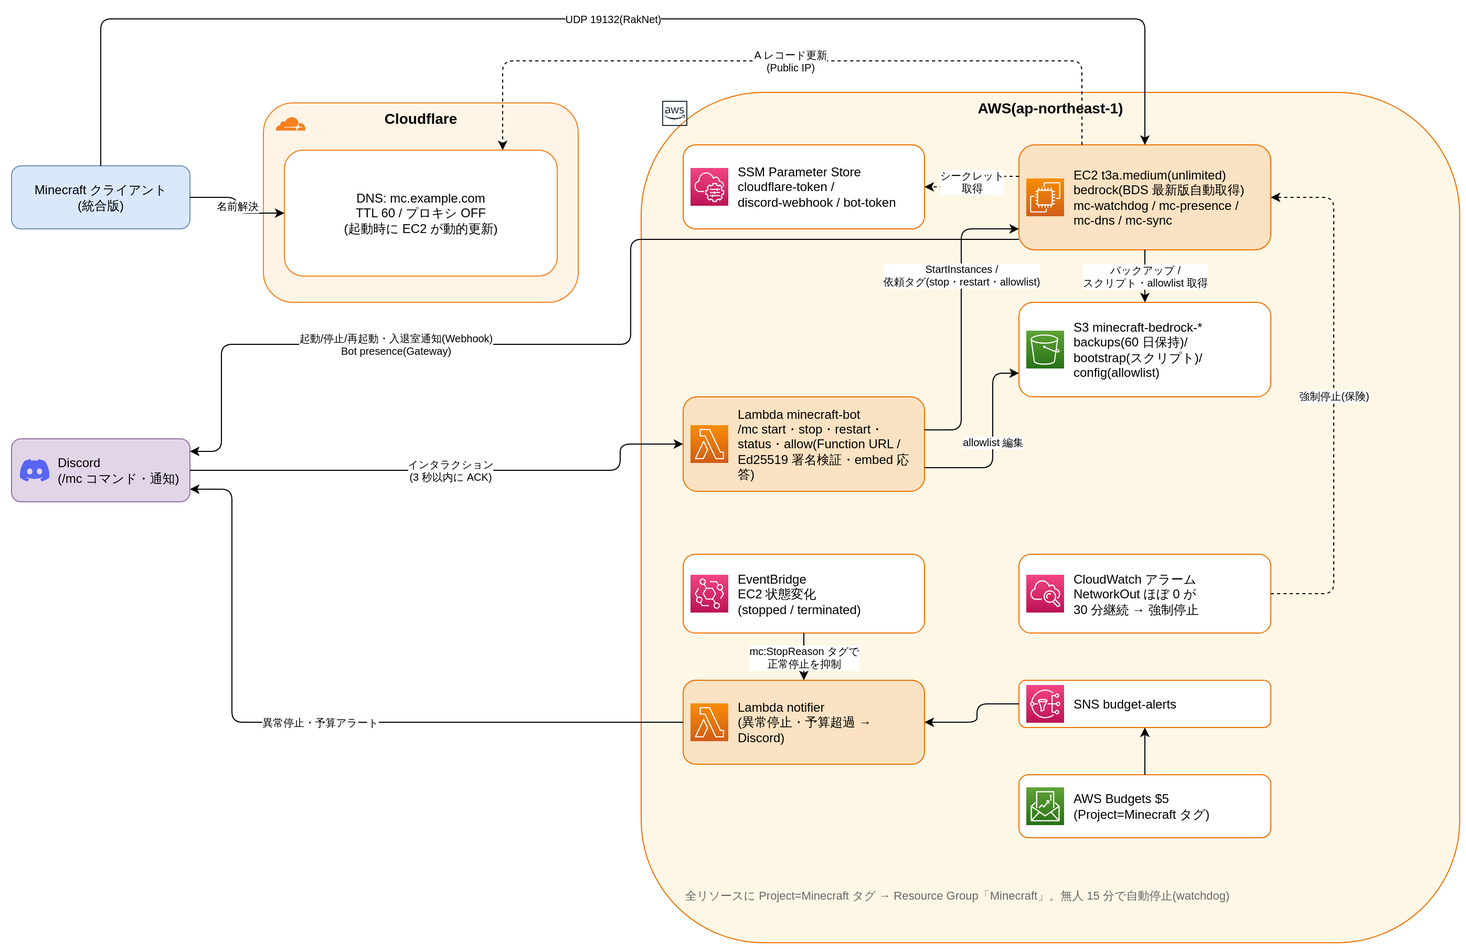
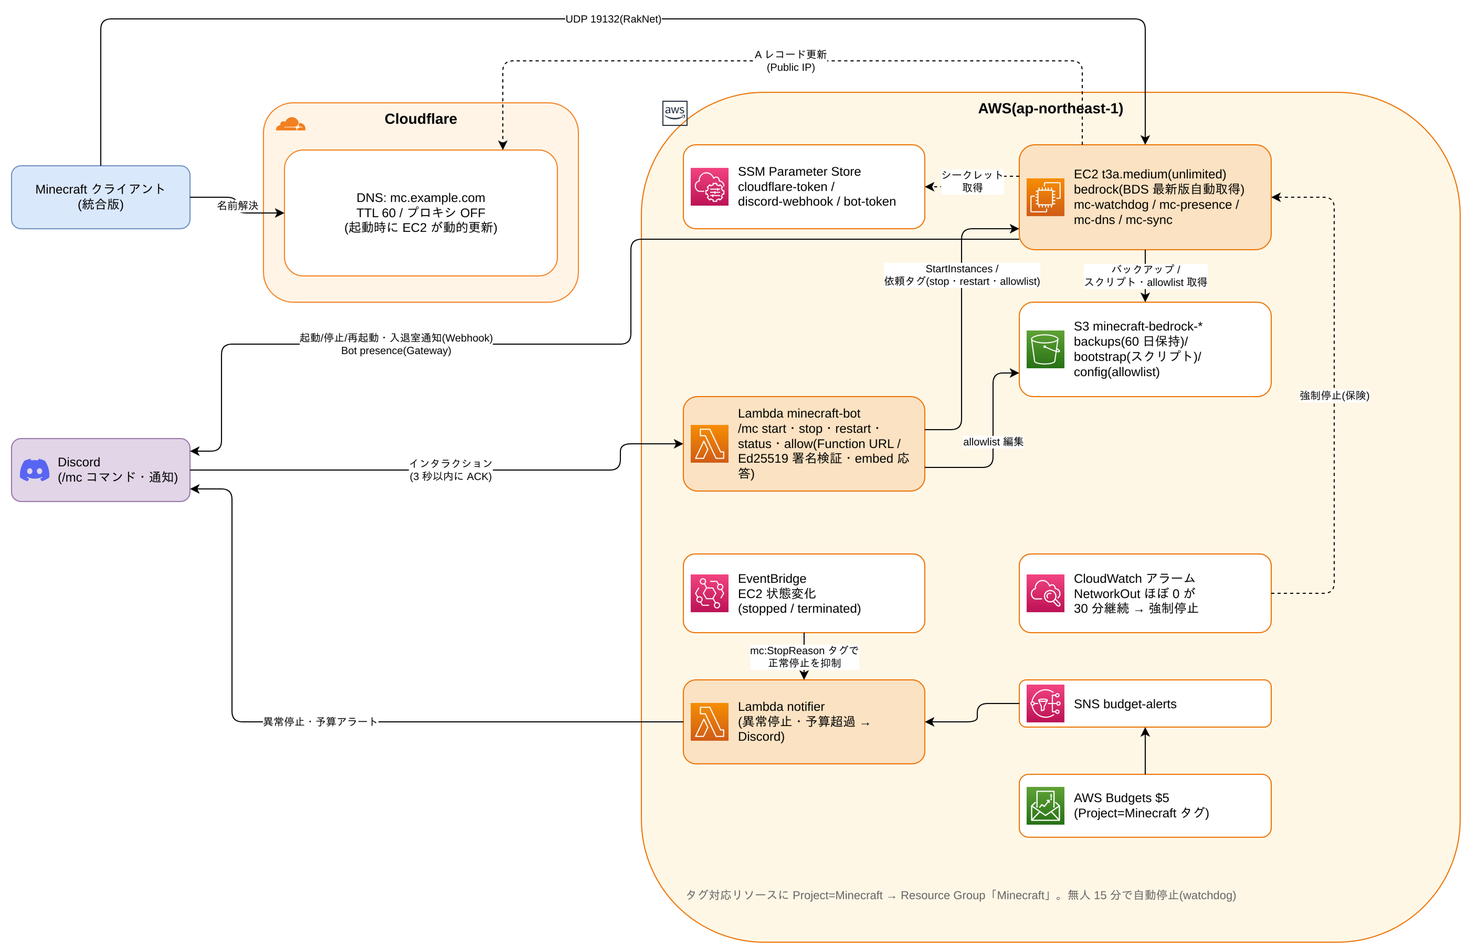
Audit OSS readiness and fix repository contradictions

diff --git a/server/idle-watchdog.py b/server/idle-watchdog.py
@@ -139,17 +139,18 @@ def sync_allowlist(instance_id: str) -> None:
                "`journalctl -u mc-watchdog` を確認してください", YELLOW)
         return
 
-    # bedrock の FIFO 標準入力に allowlist reload を送る(再起動なしで反映)
+    # bedrock の FIFO 標準入力に有効/無効と reload を送る(再起動なしで反映)
     reloaded = False
     try:
         fd = os.open("/run/bedrock/stdin", os.O_WRONLY | os.O_NONBLOCK)
-        os.write(fd, b"allowlist reload\n")
+        enabled = "on" if names else "off"
+        os.write(fd, f"allowlist {enabled}\nallowlist reload\n".encode())
         os.close(fd)
         reloaded = True
     except OSError:
         log.exception("failed to send allowlist reload (applies on next boot)")
 
-    members = ", ".join(f"`{n}`" for n in names) if names else "(空 = 誰も入れません)"
+    members = ", ".join(f"`{n}`" for n in names) if names else "(空 = 誰でも参加できます)"
     suffix = "" if reloaded else "\n(サーバーの次回起動時に反映されます)"
     notify("🔑 allowlist を更新しました", f"現在の許可: {members}{suffix}", BLURPLE)
 

diff --git a/server/presence-client.py b/server/presence-client.py
@@ -27,7 +27,7 @@ logging.basicConfig(level=logging.INFO, format="%(asctime)s %(levelname)s %(mess
 log = logging.getLogger("mc-presence")
 
 GATEWAY = "wss://gateway.discord.gg/?v=10&encoding=json"
-BOT_TOKEN_PARAM = os.environ["BOT_TOKEN_PARAM"]
+PARAMETER_NAME = os.environ["BOT_TOKEN_PARAM"]
 PRESENCE_TEXT = os.environ.get("PRESENCE_TEXT", "mcサーバーオンライン")
 STATE_FILE = "/run/mc-ondemand.state"  # watchdog が停止フェーズで "stopping" を書く
 UPDATE_INTERVAL = 10
@@ -39,7 +39,7 @@ def bot_token() -> str:
     global _token
     if _token is None:
         _token = boto3.client("ssm").get_parameter(
-            Name=BOT_TOKEN_PARAM, WithDecryption=True
+            Name=PARAMETER_NAME, WithDecryption=True
         )["Parameter"]["Value"]
     return _token
 

diff --git a/bot/lambda_function.py b/bot/lambda_function.py
@@ -234,7 +234,7 @@ def do_allow(token: str, action: str, gamertag: str | None) -> None:
     names = [e["name"] for e in entries]
 
     def members() -> str:
-        return "\n".join(f"- `{n}`" for n in names) if names else "(空 = 誰も入れません)"
+        return "\n".join(f"- `{n}`" for n in names) if names else "(空 = 誰でも参加できます)"
 
     if action == "list":
         edit_original(token, embed("🔑 allowlist", members(), GREY))

diff --git a/docs/ja/00-intro.md b/docs/ja/00-intro.md
@@ -11,7 +11,8 @@ AWS の入門書は世の中にたくさんありますが、多くは「EC2 を
 - **オンデマンド起動**: Discord の `/mc start` で起動。遊ばないときは停止していて、EBS 代しかかからない
 - **自動停止**: プレイヤーが 0 人のまま 15 分経つと、ワールドを保存・バックアップして自動停止
 - **障害検知**: 「自動停止が壊れて動きっぱなし」まで想定した 3 層の見張り + 予算アラート
-- **すべてコードで管理**: Terraform で `apply` 一発。飽きたら `destroy` 一発で全部消える
+- **すべてコードで管理**: `terraform apply` で Terraform 管理のインフラを構築。
+  S3 や管理外の SSM パラメータを含む完全な片付けは 08 章で扱う
 
 「遊ぶときだけ起動して従量課金を最小化する」「壊れる前提で多層防御する」「インフラをコードにする」——
 これらはそのまま業務のクラウド設計で使う考え方です。
@@ -24,15 +25,20 @@ AWS の入門書は世の中にたくさんありますが、多くは「EC2 を
 
 ## かかる費用
 
-**遊ばなければ月 $2 程度、月 40 時間遊んで約 $4.3**(東京リージョン)。
+**遊ばなければ月 $2 程度、月 40 時間遊んで約 $4.2**(東京リージョン)。
 
 | 項目 | 概算 |
 | --- | --- |
-| t3a.medium オンデマンド 40h | 約 $2.2 |
+| t3a.medium オンデマンド 40h | 約 $2.0 |
+| 稼働中の Public IPv4 アドレス 40h | 約 $0.2 |
 | EBS gp3 20GB(停止中も課金) | 約 $1.9 |
 | CloudWatch アラーム 1 本 | $0.10 |
-| Lambda / SSM / S3 / DNS | ほぼ $0(無料枠内) |
-| **合計** | **約 $4.3 / 月** |
+| Lambda / SSM / S3 / DNS | この規模ではほぼ $0 |
+| **合計** | **約 $4.2 / 月** |
+
+ドメイン代とデータ転送量は含みません。料金は変わるため、構築前に東京リージョンの
+最新価格を確認してください。24 時間稼働では、インスタンス・Public IPv4・EBS・
+アラームを合わせて約 $42/月です。
 
 AWS は使った分だけ課金されるので、「消し忘れ」が一番怖い事故です。この構成には
 自動停止・強制停止・予算アラートの 3 つの安全装置が最初から入っています(詳細は [07 章](07-monitoring.md))。
@@ -72,7 +78,7 @@ Lambda Function URL (minecraft-bot)
 | AWS アカウント | [01 章](01-aws-account.md) で作ります |
 | 独自ドメイン | Cloudflare で DNS 管理していること(ドメイン代のみ。Cloudflare は無料プラン可)。Route 53 でも OK(教材コードは Cloudflare 前提。理由と移植方法は [03 章](03-ec2.md) 参照) |
 | Discord アカウントとサーバー | Bot を置くサーバー。自分で新規作成すれば OK |
-| 作業マシン | macOS / Linux / WSL。Terraform >= 1.13、AWS CLI v2、Python 3 |
+| 作業マシン | macOS / Linux / WSL。Terraform >= 1.13、AWS CLI v2、Python 3(pip を含む)、zip |
 
 > **ドメインを持っていない場合**: Cloudflare Registrar 等で `.dev` や `.com` を年 $10 前後で
 > 取得できます。IP 直打ちでも遊べますが、起動のたびに IP が変わる構成なので DNS はほぼ必須です。

diff --git a/docs/ja/07-monitoring.md b/docs/ja/07-monitoring.md
@@ -3,7 +3,7 @@
 対応ファイル: `monitoring.tf` / `budget.tf` / `lambda.tf`(EventBridge)/ `server/idle-watchdog.py` / `server/alert.sh`
 
 この構成で一番怖い事故は「自動停止が壊れて、誰も遊んでいないのに動き続ける」ことです。
-24 時間稼働だと約 $20/月ペース。そこで**停止まわりは「誰が死んでも別の層が気づく」3 層 + 保険 2 つ**
+24 時間稼働だと約 $42/月ペース。そこで**停止まわりは「誰が死んでも別の層が気づく」3 層 + 保険 2 つ**
 という過剰なくらいの多層防御にしてあります。分散システム設計の縮図として読んでください。
 
 ## 検知の 3 層
@@ -51,10 +51,11 @@ alarm_actions       = ["arn:aws:automate:${local.region}:ec2:stop"]
 ```
 
 「NetworkOut が 30 分ほぼゼロ = 誰も接続していないのに動いている」を CloudWatch メトリクスで検知し、
-**アラームアクションで直接 EC2 を止めます**(Lambda すら不要)。閾値の 50KB/5分は
-「SSM Agent 等の常時ノイズより上、プレイ中のトラフィックよりはるかに下」に置いた値です。
-`treat_missing_data = "notBreaching"` により、停止中(メトリクスが来ない)には鳴りません。
-費用はアラーム 1 本 $0.10/月。
+**アラームアクションで直接 EC2 を止めます**(Lambda すら不要)。ただし 50KB/5分は
+プレイヤー数を直接見ないヒューリスティックなので、実際の通信量を確認して必要なら調整してください。
+接続中でも極端に静かなサーバーは停止される可能性があり、この最後の保険では EC2 内の
+正常な保存・バックアップ処理を通りません。`treat_missing_data = "notBreaching"` により、
+停止中(メトリクスが来ない)には鳴りません。費用はアラーム 1 本 $0.10/月。
 
 ## 保険②: AWS Budgets — 金額そのものを見張る最後の砦
 
@@ -79,8 +80,8 @@ alarm_actions       = ["arn:aws:automate:${local.region}:ec2:stop"]
 | Budgets $5 | 上記すべての想定外 |
 | アカウント全体の予算(01 章) | このプロジェクト外の消し忘れ |
 
-「気をつける」ではなく「仕組みで防ぐ」。個人の学習アカウントでも、この姿勢が身につくと
-安心して実験できるようになります。
+「気をつける」だけでなく「失敗を見える化し、影響を抑える」ように設計する。
+個人の学習アカウントでも、この姿勢が身につくとより安全に実験できるようになります。
 
 ---
 

diff --git a/docs/ja/05-s3-ssm.md b/docs/ja/05-s3-ssm.md
@@ -18,7 +18,7 @@ minecraft-bedrock-<アカウントID>/
 ### バケット名とパブリックアクセスブロック
 
 バケット名は**世界中で一意**である必要があるため、アカウント ID をサフィックスにしています。
-そして作ったら即、パブリックアクセスを全ブロック:
+そして作ったら即、パブリックアクセスを全ブロックし、SSE-S3 による保存時暗号化を明示します:
 
 ```hcl
 resource "aws_s3_bucket_public_access_block" "minecraft" {
@@ -33,8 +33,9 @@ resource "aws_s3_bucket_public_access_block" "minecraft" {
 
 ### ライフサイクルルール — 消し忘れの自動化
 
-バックアップは放っておくと無限に溜まります。`backups/` プレフィックスに
-**60 日で自動削除**のルールを付けてあり、人間が掃除を覚えておく必要がありません。
+バックアップは放っておくと無限に溜まります。`backups/` プレフィックスには
+**60 日で自動削除**し、未完了のマルチパートアップロードを 7 日で中止するルールを付けてあり、
+人間が掃除を覚えておく必要がありません。
 
 ```hcl
 rule {
@@ -52,6 +53,10 @@ S3 から取得し直します。
 これの何がうれしいかというと、**サーバー上のスクリプトを直したいとき、インスタンスに入らなくてよい**
 のです。リポジトリでスクリプトを修正 → `terraform apply`(S3 が更新される)→ 次回起動時に自動反映。
 「サーバーの中身も Git で管理する」が実現できています。
+
+スクリプト同期後、`mc-sync.sh` は `install-bds.sh` を実行し、公式 API で Bedrock サーバーの
+更新を確認します。更新確認に失敗した場合は systemd の失敗通知を出しますが、
+インストール済みのサーバーの起動は妨げません。
 
 ### 「唯一の真実」を S3 に置く — allowlist の例
 
@@ -75,7 +80,8 @@ aws ssm put-parameter --type SecureString \
 ```
 
 - 登録は Terraform の**外**で行う(tfstate にも平文を残さないため)
-- 読む側(EC2 / Lambda)は IAM で `/minecraft/*` の読み取りだけを許可(04 章)
+- EC2 は指定した 3 パラメータ、notifier Lambda は Discord Webhook パラメータだけを
+  読めるよう IAM で制限(04 章)
 - コード・リポジトリ・tfstate のどこにも秘密が現れない
 
 Secrets Manager という上位サービスもありますが(自動ローテーション等。1 シークレット月 $0.40)、

diff --git a/docs/00-intro.md b/docs/00-intro.md
@@ -14,7 +14,8 @@ you would build it for real operation:
 - **Auto-stop**: after 15 minutes with zero players, it saves, backs up the world, and stops itself
 - **Failure detection**: three layers of watchers, designed for the case where auto-stop
   itself breaks, plus a budget alarm
-- **Everything as code**: one `terraform apply` builds it; one `terraform destroy` removes it all
+- **Everything as code**: one `terraform apply` builds the Terraform-managed
+  infrastructure; chapter 08 covers complete teardown, including external state
 
 "Run things only when needed to minimize pay-as-you-go costs", "design for failure with
 layered defenses", "manage infrastructure as code" — these are exactly the ideas you use
@@ -30,15 +31,20 @@ in professional cloud work.
 
 ## What it costs
 
-**About $2/month if you never play, about $4.30 for 40 hours of play** (Tokyo region).
+**About $2/month if you never play, about $4.20 for 40 hours of play** (Tokyo region).
 
 | Item | Approx. |
 | --- | --- |
-| t3a.medium on-demand, 40 h | ~$2.20 |
+| t3a.medium on-demand, 40 h | ~$2.00 |
+| In-use public IPv4 address, 40 h | ~$0.20 |
 | EBS gp3 20 GB (billed even while stopped) | ~$1.90 |
 | CloudWatch alarm ×1 | $0.10 |
-| Lambda / SSM / S3 / DNS | ~$0 (free tier) |
-| **Total** | **~$4.30 / month** |
+| Lambda / SSM / S3 / DNS | ~$0 at this scale |
+| **Total** | **~$4.20 / month** |
+
+Prices exclude domain registration and data transfer and can change; check the current
+Tokyo-region pricing before deployment. Running continuously is roughly $42/month,
+including the instance, public IPv4 address, EBS, and alarm.
 
 AWS bills for what you use, which makes "forgot to turn it off" the scariest failure
 mode. This setup ships with three safety nets — auto-stop, force-stop, and budget
@@ -80,7 +86,7 @@ Two key points:
 | AWS account | We create one in [chapter 01](01-aws-account.md) |
 | A domain | DNS managed on Cloudflare (domain cost only; Cloudflare free plan is fine). Route 53 works too — the code here targets Cloudflare; see [chapter 03](03-ec2.md) for why, and how to port |
 | Discord account & server | Somewhere to put the bot. Creating a fresh server is fine |
-| A work machine | macOS / Linux / WSL, with Terraform >= 1.13, AWS CLI v2, Python 3 |
+| A work machine | macOS / Linux / WSL, with Terraform >= 1.13, AWS CLI v2, Python 3 with pip, and zip |
 
 > **No domain yet?** Registrars like Cloudflare Registrar sell `.dev` / `.com` domains
 > for around $10/year. You can technically play by raw IP, but the IP changes on every

diff --git a/docs/ja/03-ec2.md b/docs/ja/03-ec2.md
@@ -28,9 +28,10 @@ AMI はインスタンスの起動元になる OS イメージです。ID(`ami-x
 
 - **Minecraft 統合版サーバー(BDS)は x86_64 ビルドしか無い** → 安い ARM(Graviton)は使えない
 - t 系は「バースト可能」インスタンス。普段は安く、CPU クレジットを消費して性能を出す
-- **`cpu_credits = "unlimited"`** にしている。`standard` だと停止→起動のたびにクレジット残高 0 から
-  始まり、ベースライン性能に絞られてプレイ中にカクつく。unlimited は超過分が課金されるが、
-  自動停止と予算監視(07 章)が上限の抑えになる
+- **`cpu_credits = "unlimited"`** にしている。T3a のクレジットは停止後 7 日間保持されるが、
+  `standard` は残高を使い切るとベースライン(2 vCPU 合計 40%)に絞られる。
+  unlimited はその制限を避ける代わりに上限のない超過料金が発生しうるため、
+  自動停止で稼働時間を抑え、予算監視(07 章)で使いすぎを検知する
 
 「安いインスタンス + 使うときだけ起動」がこの構成のコスト戦略の柱です。
 
@@ -46,13 +47,14 @@ ingress {
 ```
 
 セキュリティグループはインスタンス単位のファイアウォールです。**開けるのは Minecraft の
-UDP 19132/19133 だけ。SSH(TCP 22)は開けません。** シェルが必要なときは
+IPv4 UDP 19132 だけ。SSH(TCP 22)は開けません。** シェルが必要なときは
 SSM Session Manager(04 章)を使います。「そもそもポートを開けない」のが最強の SSH 対策です。
 
 ## EBS — ディスク
 
-ワールドデータが乗る 20GB の gp3 ボリューム。重要なのは、**EBS はインスタンス停止中も課金される**
-ことです(約 $1.9/月)。この構成の「遊ばない月」の固定費はほぼこれだけです。
+ワールドデータが乗る暗号化済み 20GB の gp3 ボリューム。重要なのは、
+**EBS はインスタンス停止中も課金される**ことです(約 $1.9/月)。
+この構成の「遊ばない月」の固定費はほぼこれだけです。
 
 ## user_data — 初回起動時の自動セットアップ
 

diff --git a/docs/ja/02-terraform.md b/docs/ja/02-terraform.md
@@ -9,9 +9,11 @@ AWS コンソールをポチポチして作ったインフラは、
 - 同じ環境をもう 1 つ作るのに同じ作業を繰り返す
 
 という問題があります。Terraform は「あるべきインフラの状態」をコードで書き、
-実際の AWS をその状態に**収束**させるツールです。この教材の全リソース
-(EC2、Lambda、IAM、S3、アラーム、予算…)は `.tf` ファイルに書かれていて、
-`terraform apply` 一発で構築、`terraform destroy` 一発で全削除できます。
+実際の AWS をその状態に**収束**させるツールです。この教材で Terraform が管理する
+インフラ(EC2、Lambda、IAM、S3、アラーム、予算…)は `.tf` ファイルに書かれていて、
+`terraform apply` で構築できます。削除時は S3 バケットを空にしてから
+`terraform destroy` を実行し、Terraform 管理外で作った SSM パラメータも別途削除します
+(08 章)。
 
 ## 基本の 3 コマンド
 
@@ -64,7 +66,7 @@ Terraform は「自分が作ったリソースの一覧と実際の ID」を `te
 
 ## この教材ならではの Terraform テクニック
 
-**`default_tags` で全リソースにタグを付ける**(`main.tf`)
+**`default_tags` で対応リソースに既定タグを付ける**(`main.tf`)
 
 ```hcl
 provider "aws" {
@@ -75,9 +77,9 @@ provider "aws" {
 }
 ```
 
-プロバイダに書いておくと全リソースに `Project=Minecraft` が付きます。このタグが
-「コンソールでひとまとめに見る(Resource Groups)」「IAM の権限をこのプロジェクトに限定する」
-「予算をこのプロジェクトだけで区切る」の 3 つを支える、この構成の背骨です。
+プロバイダに書いておくと、タグ対応リソースに `Project=Minecraft` が付きます。このタグが
+「コンソールでまとめて見る(Resource Groups)」「IAM の権限をこのプロジェクトの EC2 に限定する」
+「タグ付きのプロジェクト費用で予算を区切る」の 3 つを支える、この構成の背骨です。
 
 **`lifecycle.ignore_changes` で作り直しを防ぐ**(`ec2.tf`)
 

diff --git a/docs/07-monitoring.md b/docs/07-monitoring.md
@@ -3,7 +3,7 @@
 Files: `monitoring.tf` / `budget.tf` / `lambda.tf` (EventBridge) / `server/idle-watchdog.py` / `server/alert.sh`
 
 The scariest failure here is "auto-stop breaks and the server runs with nobody playing"
-— about $20/month at 24/7. So shutdown is guarded by an almost excessive
+— about $42/month at 24/7. So shutdown is guarded by an almost excessive
 **three detection layers plus two safety nets**, where any single failure is caught by
 another layer. Read it as a miniature of distributed-systems design.
 
@@ -54,9 +54,11 @@ alarm_actions       = ["arn:aws:automate:${local.region}:ec2:stop"]
 
 "NetworkOut near zero for 30 minutes = running with nobody connected" is detected from
 CloudWatch metrics, and the **alarm action stops the instance directly** (no Lambda
-involved). The 50 KB / 5 min threshold sits above the constant noise of the SSM agent
-and far below in-game traffic. `treat_missing_data = "notBreaching"` keeps the alarm
-quiet while the instance is stopped (no metrics arriving). Cost: $0.10/month for one alarm.
+involved). The 50 KB / 5 min threshold is a heuristic, not player-count awareness:
+measure your server's traffic and tune it if needed. A connected but unusually quiet
+server can be stopped, and this last-resort action does not run the graceful in-instance
+save and backup path. `treat_missing_data = "notBreaching"` keeps the alarm quiet while
+the instance is stopped (no metrics arriving). Cost: $0.10/month for one alarm.
 
 ## Safety net ②: AWS Budgets — the bill itself, watched
 
@@ -83,8 +85,9 @@ integration pattern worth noting.
 | Budgets $5 | everything unforeseen above |
 | account-wide budget (ch. 01) | leftovers outside this project |
 
-Not "be careful" but "make it impossible to fail silently". Once this attitude sticks,
-even a personal learning account becomes a safe place to experiment.
+Not merely "be careful", but design failures to become visible and limit their impact.
+Once this attitude sticks, even a personal learning account becomes a safer place to
+experiment.
 
 ---
 

diff --git a/docs/05-s3-ssm.md b/docs/05-s3-ssm.md
@@ -18,7 +18,8 @@ minecraft-bedrock-<account-id>/
 ### Bucket names and the public access block
 
 Bucket names must be **globally unique**, hence the account-ID suffix. And the first
-thing after creating a bucket: block all public access.
+thing after creating a bucket: block all public access and explicitly enable SSE-S3
+encryption at rest.
 
 ```hcl
 resource "aws_s3_bucket_public_access_block" "minecraft" {
@@ -34,7 +35,8 @@ bucket with no reason to be public should be mechanically locked down like this.
 ### Lifecycle rules — automating cleanup
 
 Backups accumulate forever if you let them. A lifecycle rule on the `backups/` prefix
-**expires objects after 60 days** — no human has to remember to clean up.
+**expires objects after 60 days** and aborts incomplete multipart uploads after seven
+days — no human has to remember to clean up.
 
 ```hcl
 rule {
@@ -52,6 +54,10 @@ boot** via `mc-sync.service`.
 Why this is great: **fixing a server-side script requires no login to the instance.**
 Edit the script in the repo → `terraform apply` (S3 updated) → picked up automatically
 at the next boot. The inside of the server is under Git control too.
+
+After syncing the scripts, `mc-sync.sh` runs `install-bds.sh` to check the official API
+for a newer Bedrock server build. A failed update check triggers the systemd failure
+notification but does not block the already installed server from starting.
 
 ### Keeping the "single source of truth" in S3 — the allowlist
 
@@ -76,7 +82,8 @@ aws ssm put-parameter --type SecureString \
 ```
 
 - Registered **outside** Terraform (so no plaintext ends up in tfstate either)
-- Readers (EC2 / Lambda) get IAM permission to read `/minecraft/*` only (chapter 04)
+- EC2 can read the three named parameters; the notifier Lambda can read only the
+  Discord webhook parameter (chapter 04)
 - No secret appears in code, the repository, or the state file
 
 AWS also offers Secrets Manager (rotation etc., $0.40/secret/month); at this scale, the

diff --git a/docs/03-ec2.md b/docs/03-ec2.md
@@ -29,10 +29,10 @@ We use `t3a.medium` (2 vCPU / 4 GB). The reasoning is itself a lesson in EC2:
 
 - **The Bedrock server (BDS) ships x86_64 builds only** → cheap ARM (Graviton) is out
 - t-family instances are "burstable": cheap at baseline, spending CPU credits to burst
-- **`cpu_credits = "unlimited"`** is set. With `standard`, every stop/start cycle
-  resets your credit balance to zero, throttling you to baseline (40% of 2 vCPUs) and
-  causing in-game stutter. Unlimited can incur surplus charges, but auto-stop plus the
-  budget watch (chapter 07) caps the downside
+- **`cpu_credits = "unlimited"`** is set. T3a credits persist for seven days after a
+  stop, but `standard` throttles to baseline (40% of 2 vCPUs) after the balance is
+  depleted. Unlimited avoids that throttle but can incur uncapped surplus charges;
+  auto-stop limits exposure and the budget watch (chapter 07) alerts on excess cost
 
 "Cheap instance + run only while playing" is the cost strategy backbone of this design.
 
@@ -47,15 +47,15 @@ ingress {
 }
 ```
 
-A security group is a per-instance firewall. **Only Minecraft's UDP 19132/19133 are
+A security group is a per-instance firewall. **Only Minecraft's IPv4 UDP 19132 is
 open. SSH (TCP 22) is not.** When you need a shell, use SSM Session Manager
 (chapter 04). The strongest SSH hardening is not opening the port at all.
 
 ## EBS — the disk
 
-A 20 GB gp3 volume holds the world data. The important fact: **EBS is billed even while
-the instance is stopped** (~$1.90/month). In a month with zero play time, this is
-essentially your whole bill.
+A 20 GB encrypted gp3 volume holds the world data. The important fact: **EBS is billed
+even while the instance is stopped** (~$1.90/month). In a month with zero play time,
+this is essentially your whole bill.
 
 ## user_data — automated first-boot setup
 
